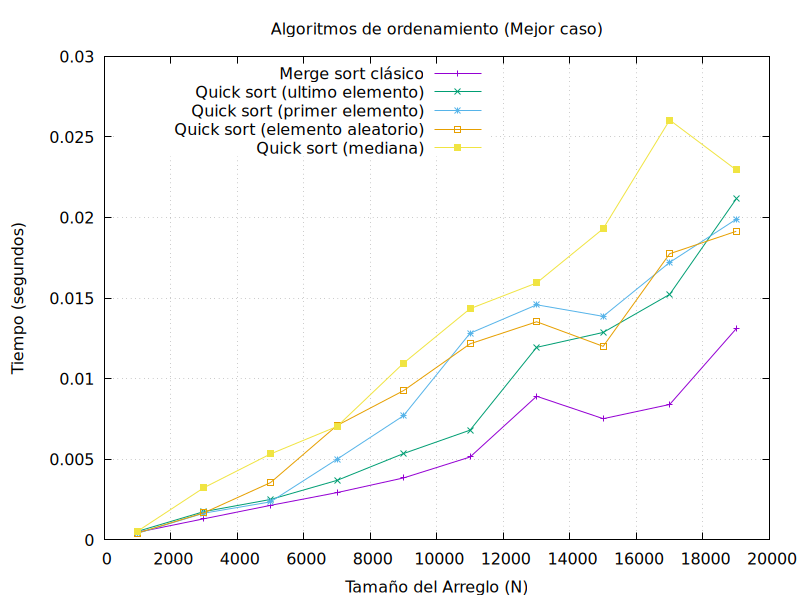
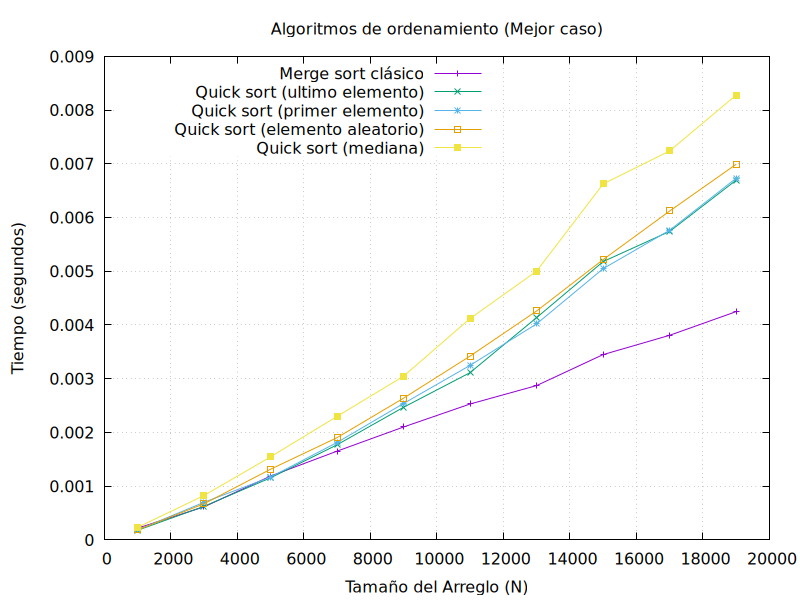
Ajustes a archivo .gp para gráficos

diff --git a/src/medicion.c b/src/medicion.c
@@ -29,10 +29,10 @@ void preparar_peor_caso(Deportista *arr, int n) {
 
 void medir() {
     // Archivos CSV separados por caso para un mejor análisis en el informe
-    FILE *f_rand = fopen("tiempos_ordenamiento_aleatorio.csv", "w");
-    FILE *f_mejor = fopen("tiempos_ordenamiento_mejor.csv", "w");
-    FILE *f_peor = fopen("tiempos_ordenamiento_peor.csv", "w");
-    FILE *f_search = fopen("tiempos_busqueda_peor_caso.csv", "w");
+    FILE *f_rand = fopen("db/tiempos_ordenamiento_aleatorio.csv", "w");
+    FILE *f_mejor = fopen("db/tiempos_ordenamiento_mejor.csv", "w");
+    FILE *f_peor = fopen("db/tiempos_ordenamiento_peor.csv", "w");
+    FILE *f_search = fopen("db/tiempos_busqueda_peor_caso.csv", "w");
     
     if (!f_rand || !f_mejor || !f_peor || !f_search) return;
 
@@ -41,8 +41,8 @@ void medir() {
     fprintf(f_peor, "N,Bubble,Insertion,Selection,Cocktail\n");
     fprintf(f_search, "N,Caso,Secuencial,BinariaRec,Exponencial,Interpolacion\n");
 
-    int tamanos[] = {1000, 3000, 5000, 8000, 10000}; 
-    int num_pasos = 5;
+    int tamanos[] = {1000, 3000, 5000, 7000, 9000, 11000, 13000, 15000, 17000, 19000}; 
+    int num_pasos = 10;
     Deportista *arr = NULL;
     clock_t start, end;
 
